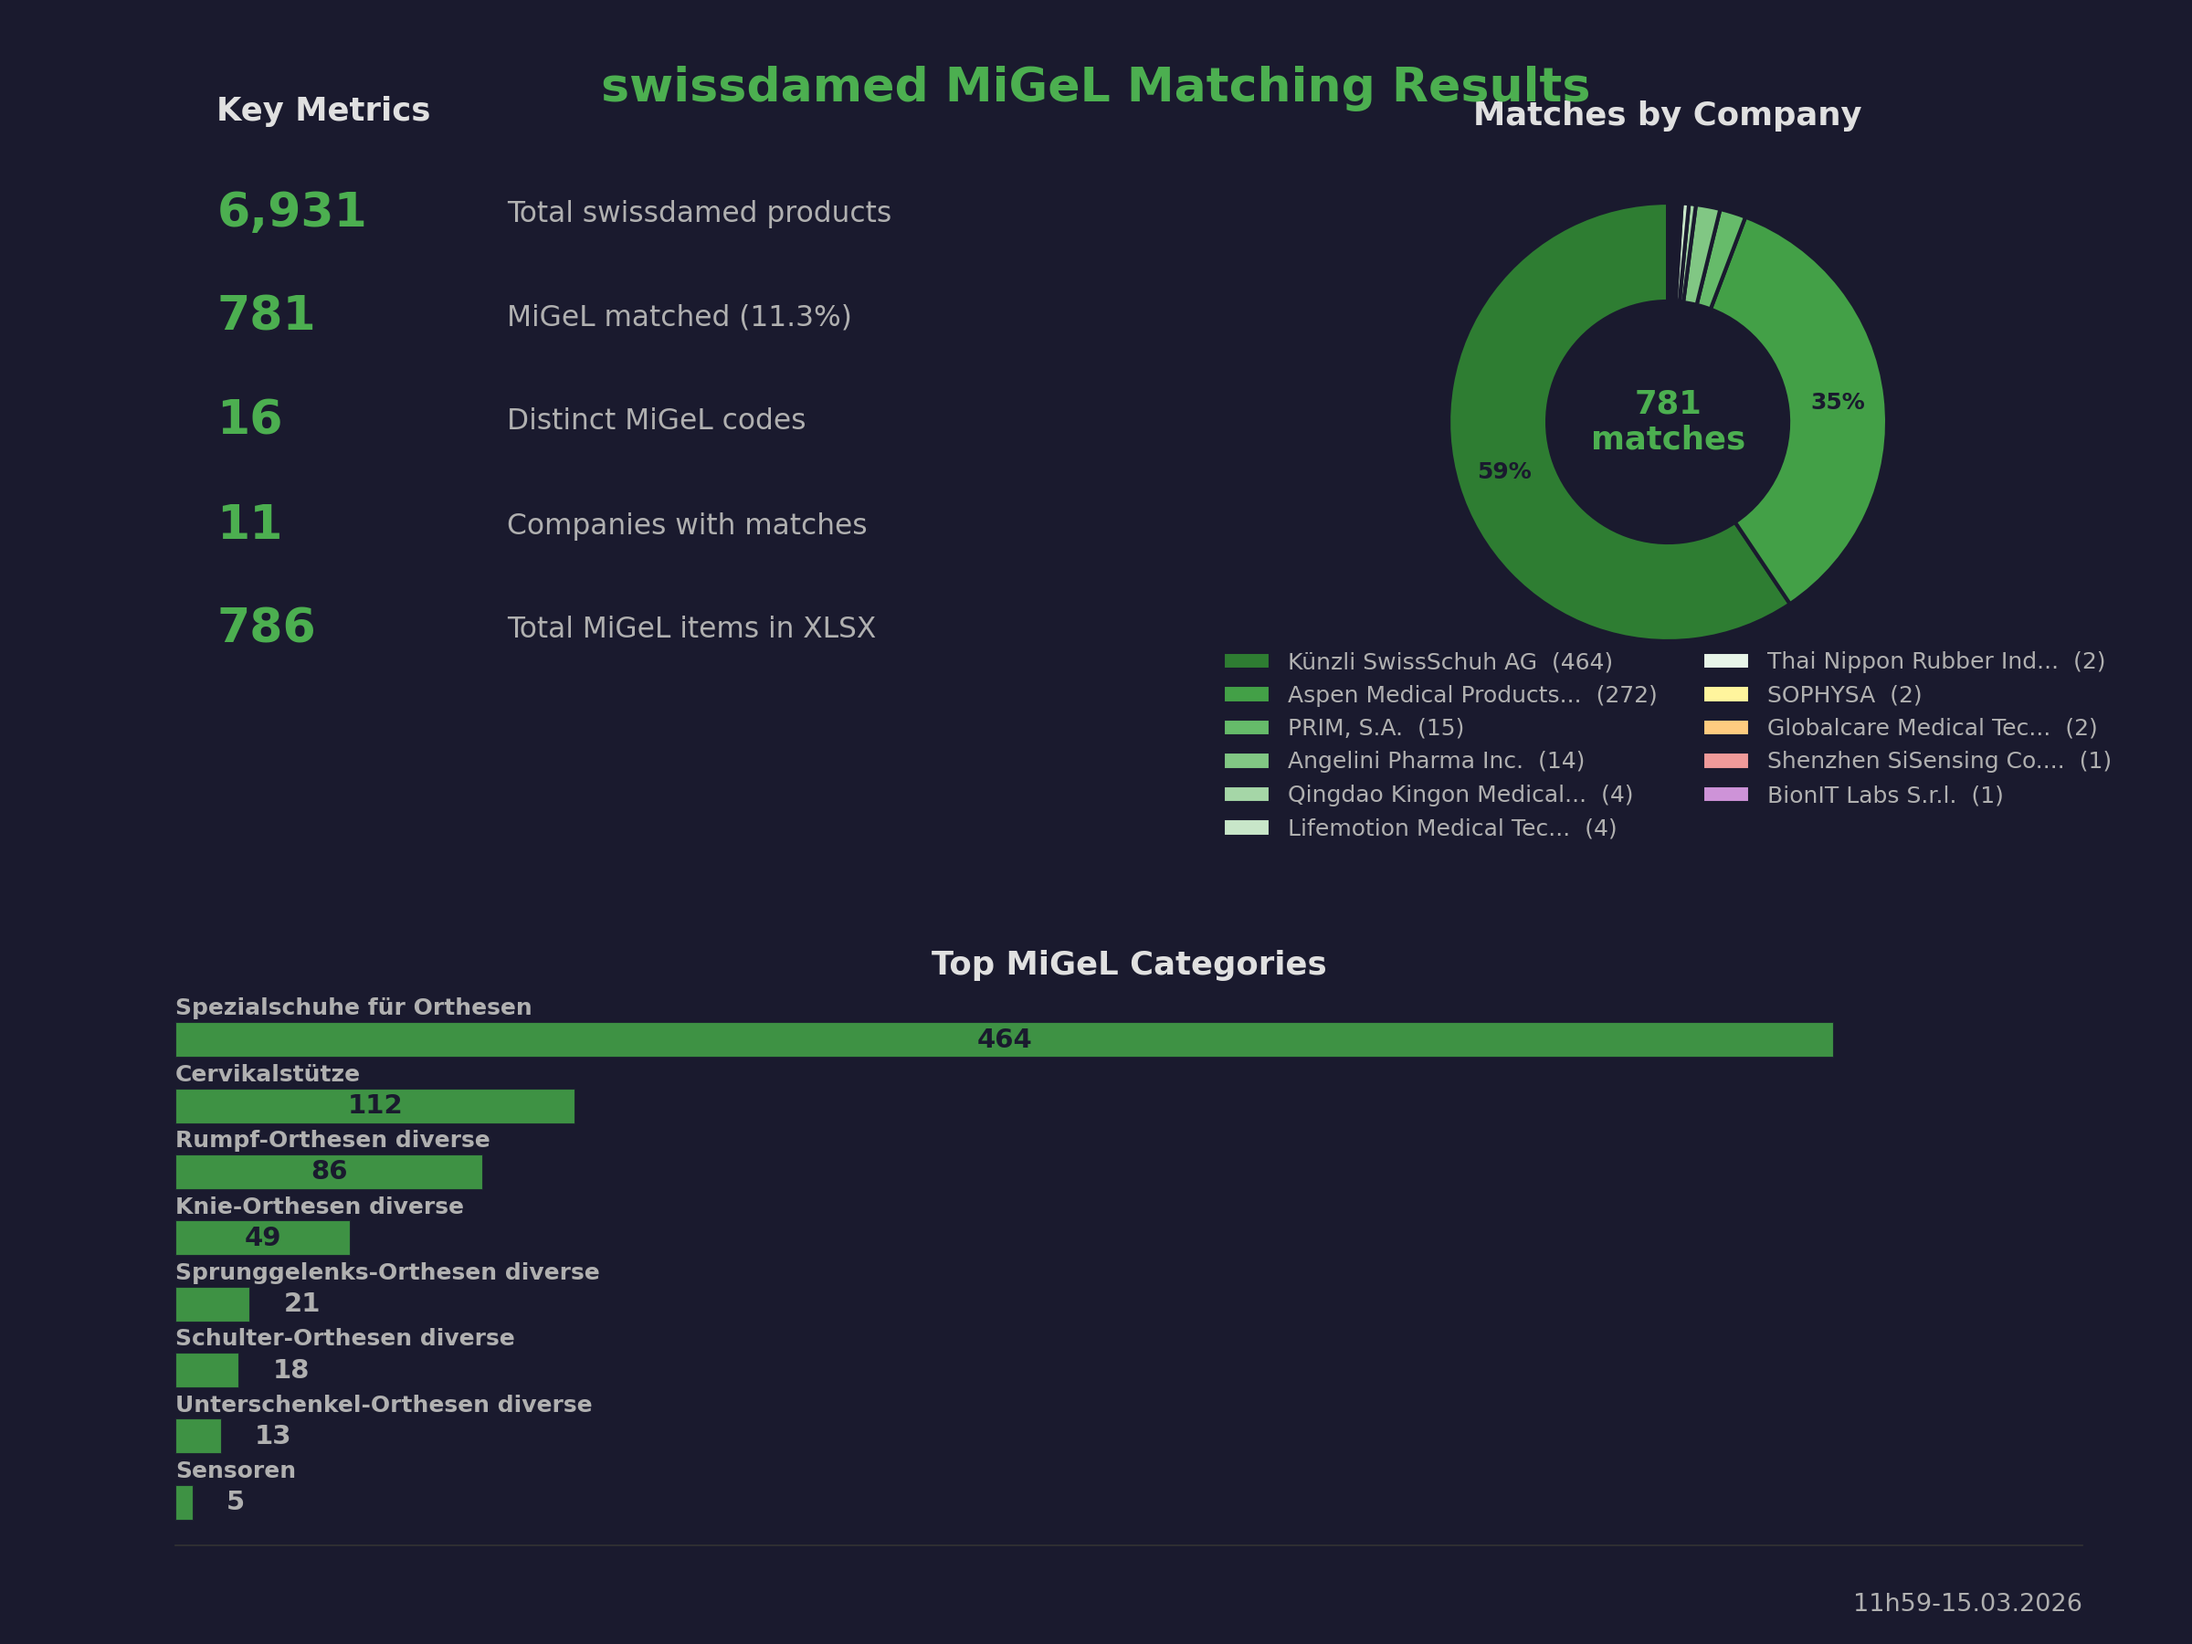
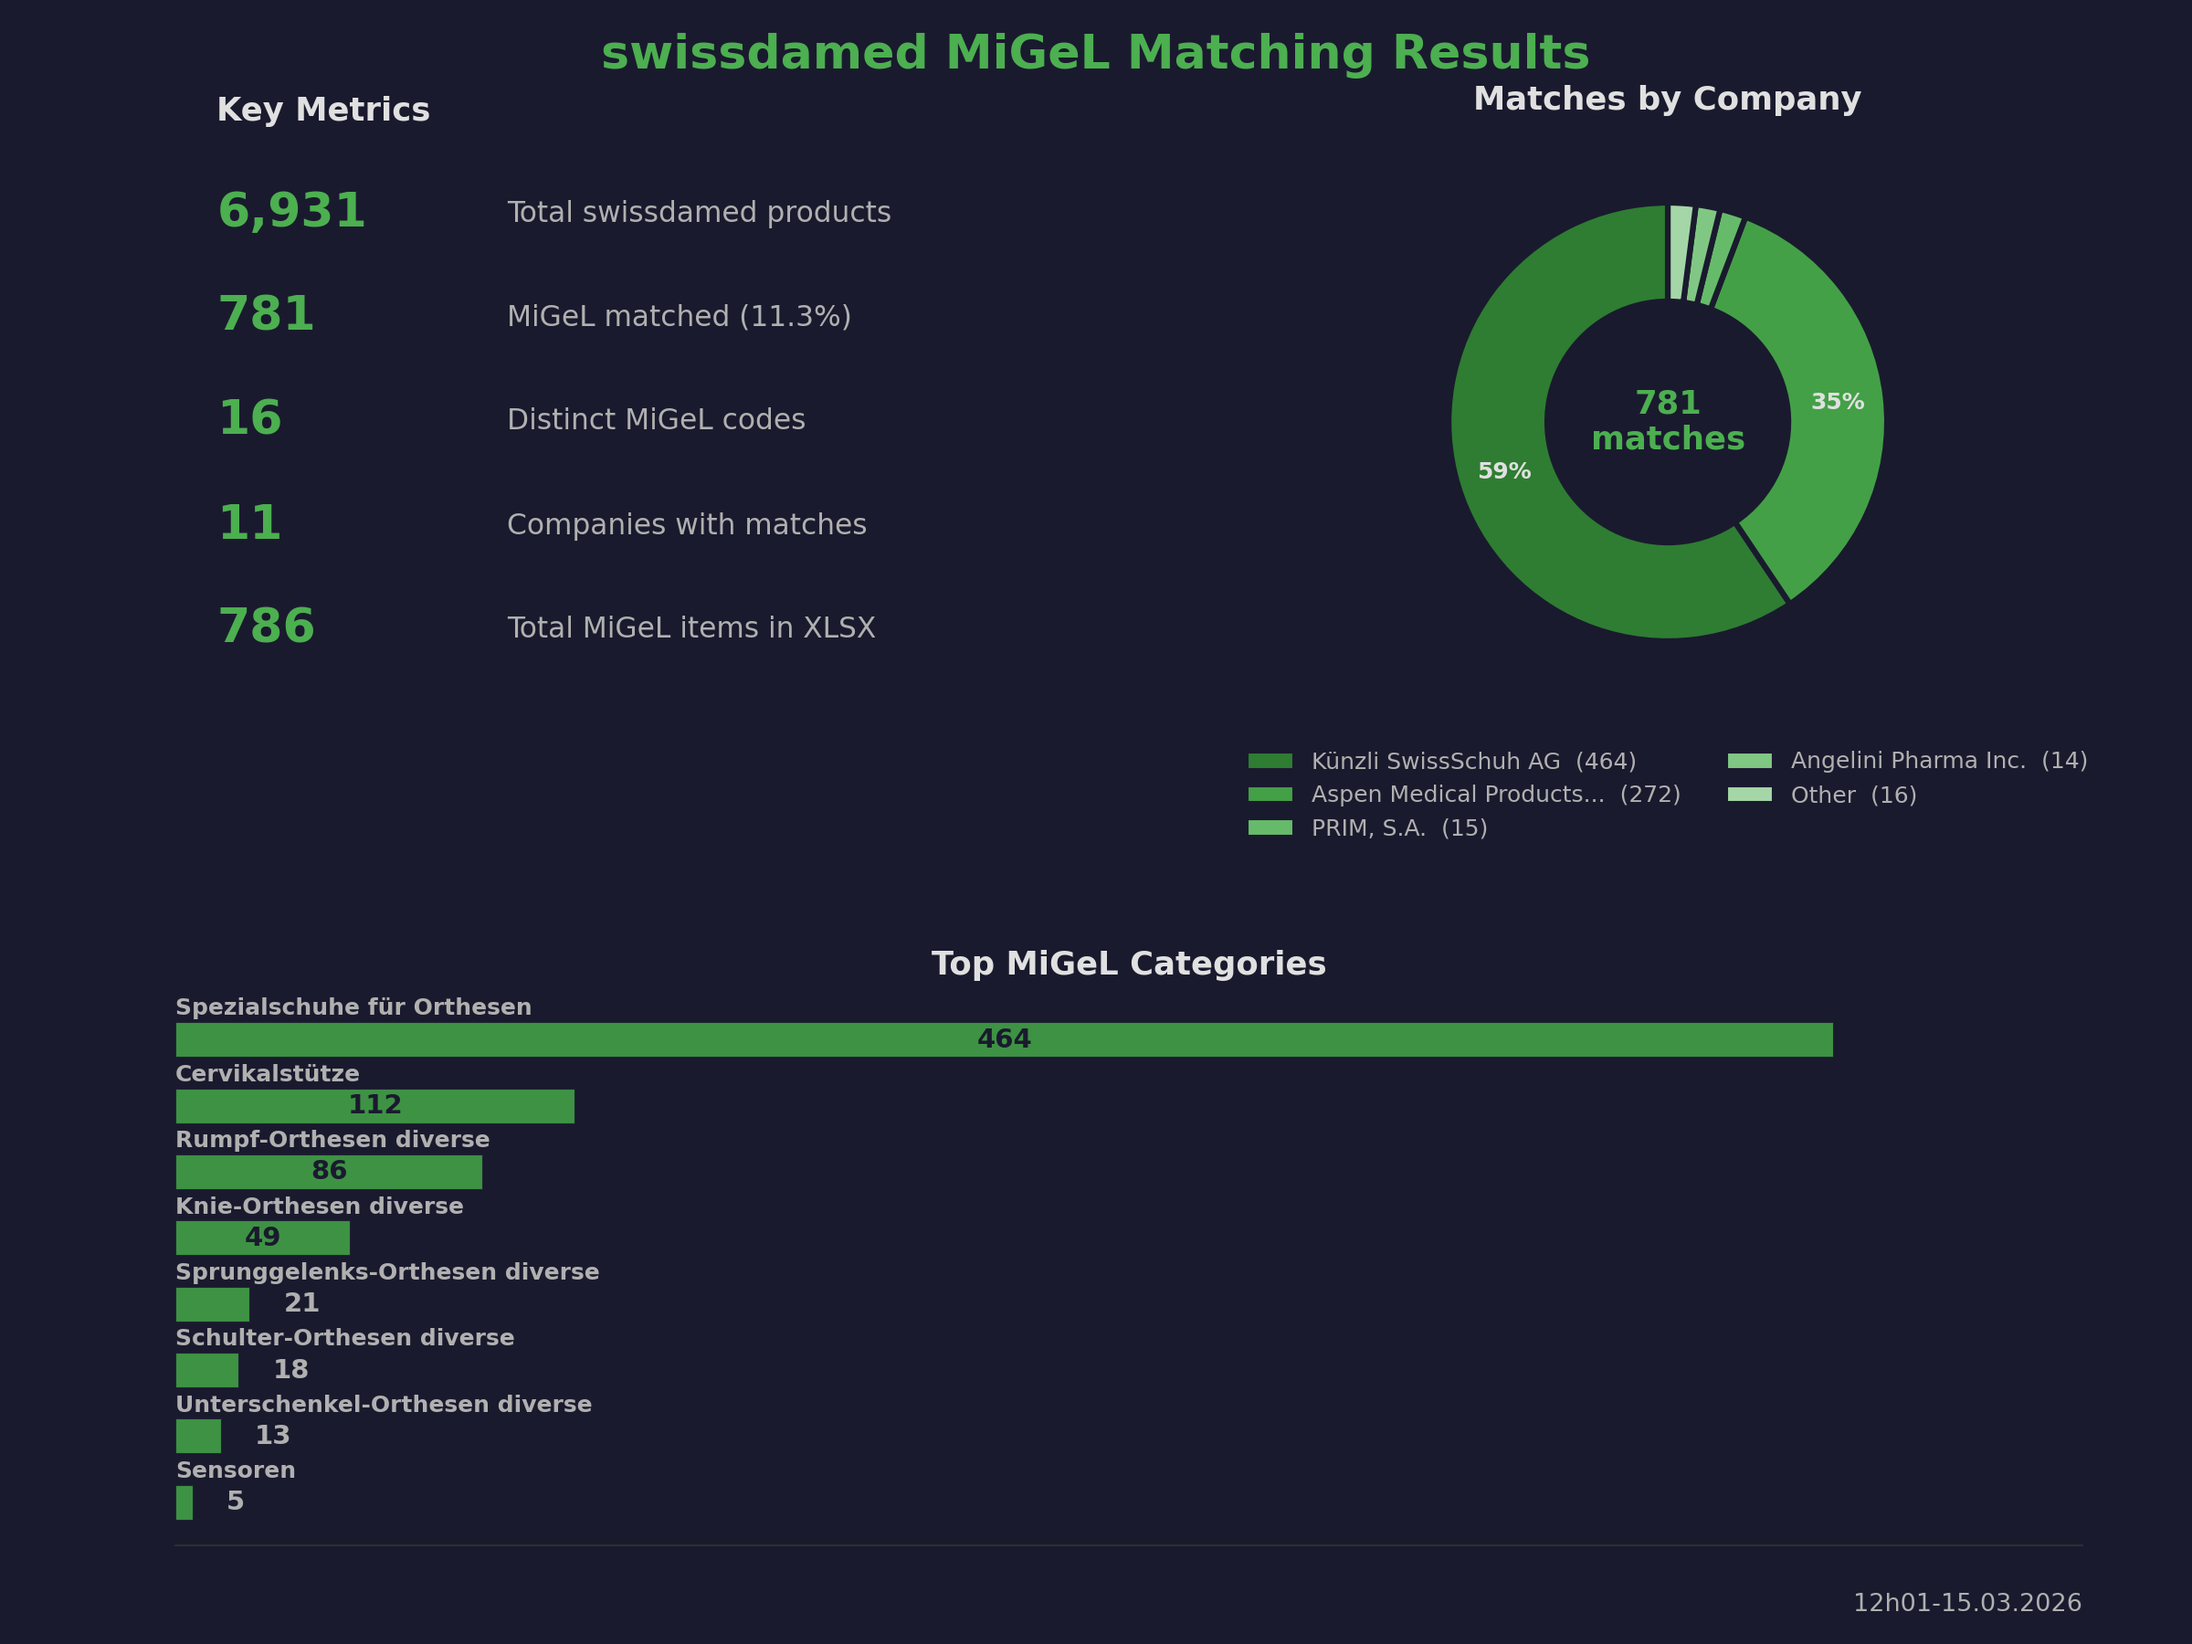
Fix donut chart artifacts and title overlap
Group small companies (< 1.5%) into "Other" to eliminate dark wedge
artifacts from tiny slices. Increase title y-position and donut title
padding to prevent overlap. Use light text color for percentage labels
on dark background. Thicker wedge edges (3px) for clean separation.

diff --git a/generate_migel_stats.py b/generate_migel_stats.py
@@ -83,7 +83,7 @@ timestamp_display = now.strftime('%Hh%M-%d.%m.%Y')
 timestamp_file = now.strftime('%Hh%M.%d.%m.%Y')
 
 fig.suptitle('swissdamed MiGeL Matching Results',
-             fontsize=25, fontweight='bold', color=accent, y=0.96)
+             fontsize=25, fontweight='bold', color=accent, y=0.98)
 fig.text(0.95, 0.02, timestamp_display, ha='right', fontsize=13, color=text_color)
 
 # --- Top left: Key metrics ---
@@ -113,8 +113,23 @@ ax1.text(0.05, 1.05, 'Key Metrics', fontsize=17, fontweight='bold',
 ax2 = fig.add_subplot(gs[0, 1])
 ax2.set_facecolor(bg_color)
 
-company_names = [r[0] for r in company_rows]
-company_values = [r[1] for r in company_rows]
+# Group small companies (< 1.5% of total) into "Other"
+threshold = total_matched * 0.015
+main_names = []
+main_values = []
+other_total = 0
+for name, val in zip([r[0] for r in company_rows], [r[1] for r in company_rows]):
+    if val >= threshold:
+        main_names.append(name)
+        main_values.append(val)
+    else:
+        other_total += val
+if other_total > 0:
+    main_names.append('Other')
+    main_values.append(other_total)
+
+company_names = main_names
+company_values = main_values
 colors = company_colors[:len(company_names)]
 
 def short_name(name):
@@ -125,12 +140,12 @@ def short_name(name):
 wedges, texts, autotexts = ax2.pie(
     company_values, labels=None, autopct='%1.0f%%',
     colors=colors, startangle=90,
-    pctdistance=0.78, wedgeprops=dict(width=0.45, edgecolor=bg_color, linewidth=2)
+    pctdistance=0.78, wedgeprops=dict(width=0.45, edgecolor=bg_color, linewidth=3)
 )
 for t in autotexts:
     t.set_fontsize(12)
     t.set_fontweight('bold')
-    t.set_color('#1a1a2e')
+    t.set_color('#e0e0e0')
 # Hide small percentages
 for t, v in zip(autotexts, company_values):
     if v / total_matched < 0.03:
@@ -140,7 +155,7 @@ ax2.text(0, 0, f'{total_matched}\nmatches', ha='center', va='center',
          fontsize=17, fontweight='bold', color=accent)
 
 ax2.set_title('Matches by Company', fontsize=17, fontweight='bold',
-              color=title_color, pad=12)
+              color=title_color, pad=20)
 
 legend = ax2.legend(
     [mpatches.Patch(facecolor=c, edgecolor=bg_color) for c in colors],
